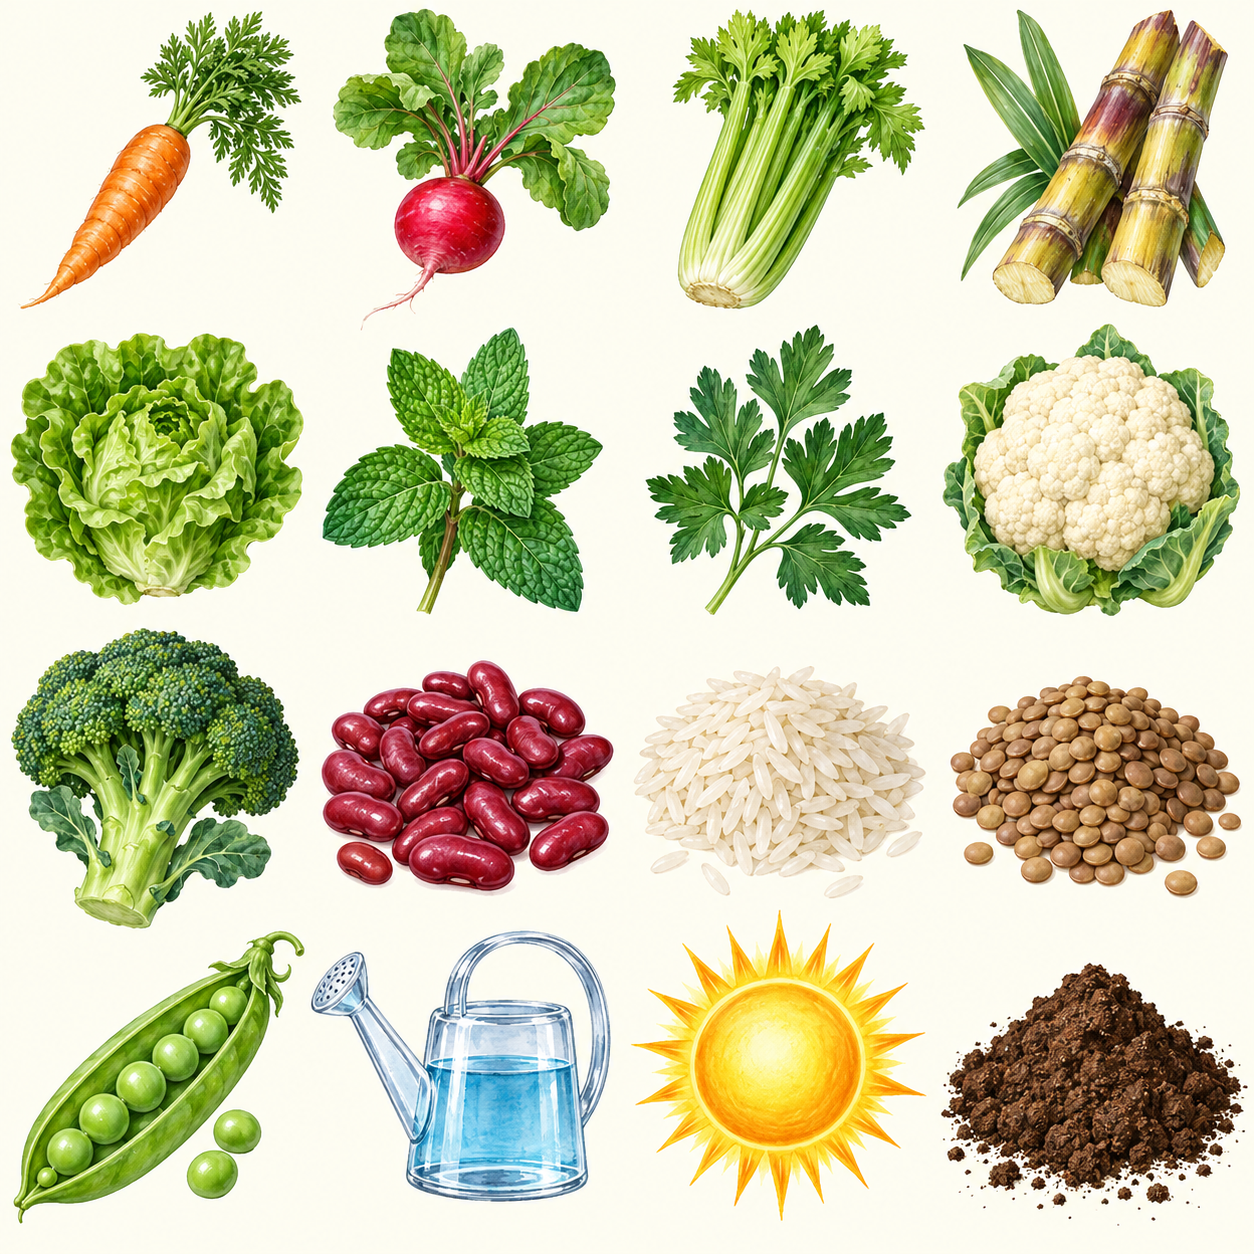
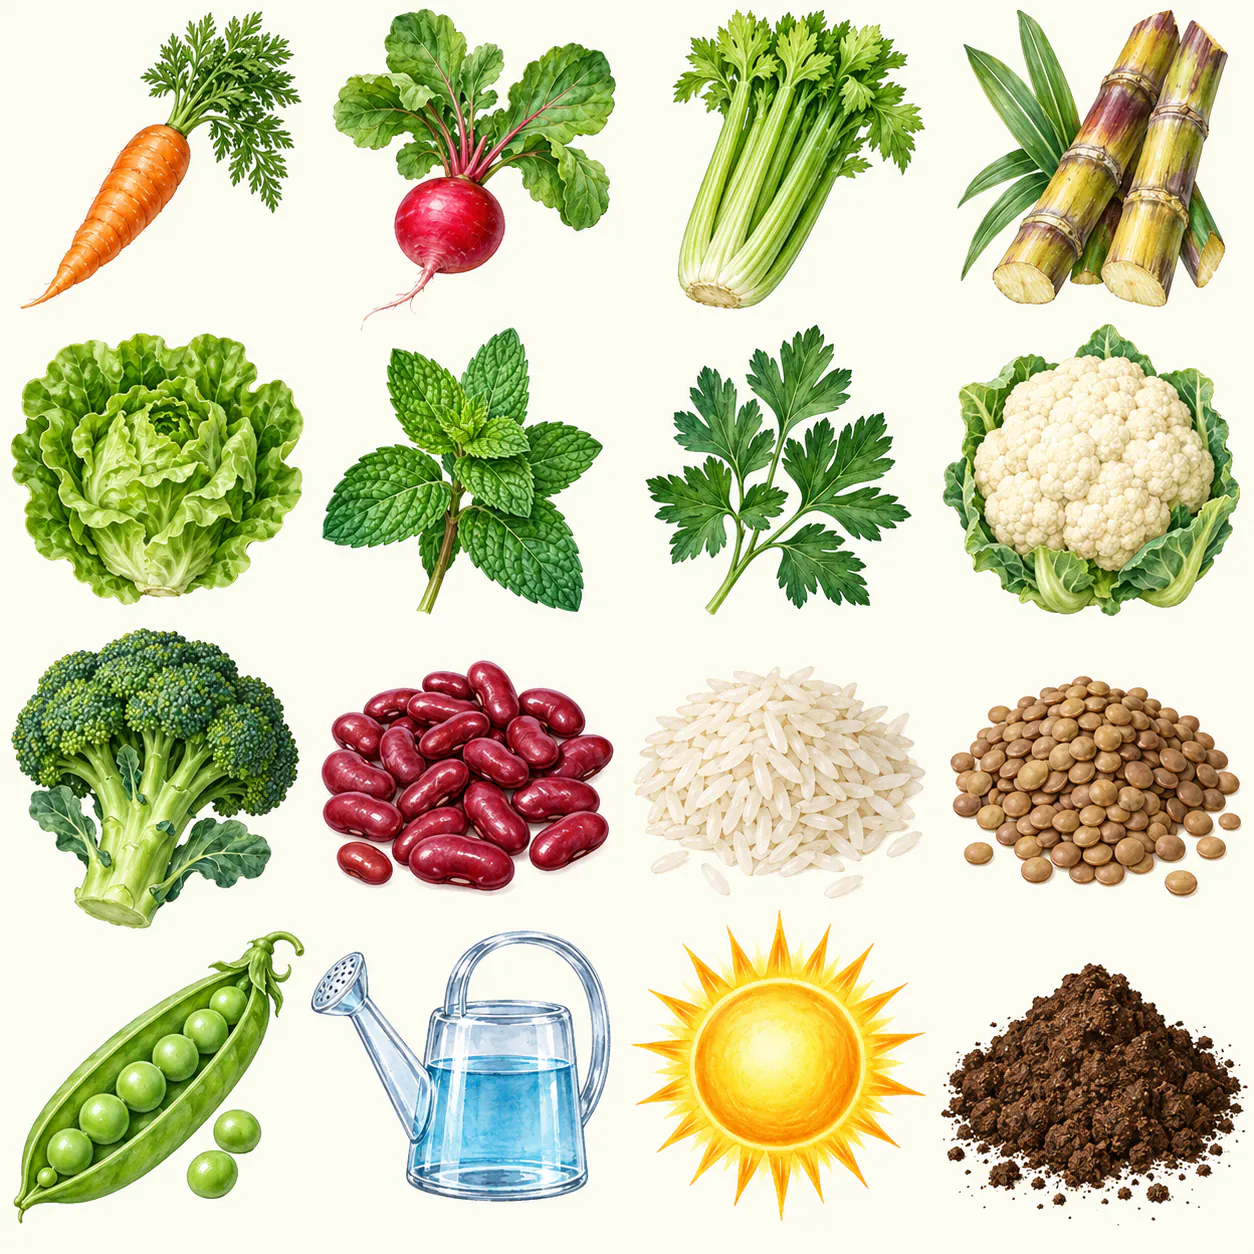
perf: re-encode bundled art as lossy WebP, 50.6 MB to 7.1 MB (AUD-008, part 2)
Owner-approved after side-by-side review (PSNR 32.5-41.3 dB measured on
the game background). Every image keeps its pixel size, so atlas crop
rectangles are unchanged; PNG atlases became .webp and references in code,
tests and pubspec were updated. Measured: images inside the debug APK 7.1 MB
(were 50.6 MB); debug APK 198.5 MB (was 222.4 MB). Hub goldens updated for
the re-encoded island art.

diff --git a/lib/features/science/science_picture.dart b/lib/features/science/science_picture.dart
@@ -7,7 +7,7 @@ import 'science_atlas_crops.dart';
 import 'magnet_picture.dart';
 
 const scienceAtlases = <String, List<String>>{
-  'science-details-v2.png': [
+  'science-details-v2.webp': [
     'plastic_pot',
     'glass_marble',
     'paper_straw',
@@ -25,7 +25,7 @@ const scienceAtlases = <String, List<String>>{
     'gloves',
     'boots',
   ],
-  'materials-atlas-v2.png': [
+  'materials-atlas-v2.webp': [
     'spoon',
     'chair',
     'window',
@@ -61,7 +61,7 @@ const scienceAtlases = <String, List<String>>{
     'magnet',
     'key',
   ],
-  'earth-atlas-v2.png': [
+  'earth-atlas-v2.webp': [
     'pond',
     'stream',
     'river',
@@ -79,7 +79,7 @@ const scienceAtlases = <String, List<String>>{
     'moon',
     'astronaut',
   ],
-  'electric-atlas-v2.png': [
+  'electric-atlas-v2.webp': [
     'tv',
     'vacuum',
     'lantern',
@@ -169,7 +169,7 @@ class SciencePicture extends StatelessWidget {
       return SizedBox(
         height: height,
         width: height * 1.25,
-        child: const IllustratedArt(asset: 'book-v1.png'),
+        child: const IllustratedArt(asset: 'book-v1.webp'),
       );
     }
     if (art == 'magnet') return MagnetPicture(height: height);
@@ -228,21 +228,21 @@ class SciencePicture extends StatelessWidget {
 }
 
 const _forceCutouts = <String, (String, Rect)>{
-  'trolley': ('forces-objects-v4.png', Rect.fromLTWH(28, 52, 306, 272)),
-  'ball': ('forces-objects-v4.png', Rect.fromLTWH(369, 61, 253, 251)),
-  'doorbell': ('forces-objects-v4.png', Rect.fromLTWH(714, 69, 159, 244)),
-  'drawer': ('forces-objects-v4.png', Rect.fromLTWH(955, 58, 264, 265)),
-  'swing': ('forces-objects-v4.png', Rect.fromLTWH(40, 334, 279, 290)),
-  'sailboat': ('forces-objects-v4.png', Rect.fromLTWH(364, 332, 277, 298)),
-  'cork': ('forces-objects-v4.png', Rect.fromLTWH(690, 366, 212, 252)),
-  'balloon': ('forces-objects-v4.png', Rect.fromLTWH(1003, 335, 181, 307)),
-  'nail': ('forces-objects-v4.png', Rect.fromLTWH(44, 654, 257, 241)),
-  'orange': ('forces-objects-v4.png', Rect.fromLTWH(42, 922, 280, 269)),
-  'peeled_orange': ('forces-objects-v4.png', Rect.fromLTWH(364, 938, 269, 247)),
-  'door': ('forces-objects-v4.png', Rect.fromLTWH(1012, 900, 195, 310)),
-  'fish': ('forces-characters-v4.png', Rect.fromLTWH(946, 95, 290, 192)),
-  'snake': ('forces-characters-v4.png', Rect.fromLTWH(341, 448, 275, 152)),
-  'bird': ('forces-characters-v4.png', Rect.fromLTWH(965, 414, 263, 200)),
-  'kangaroo': ('forces-characters-v4.png', Rect.fromLTWH(327, 632, 281, 303)),
-  'baby': ('forces-characters-v4.png', Rect.fromLTWH(952, 704, 265, 219)),
+  'trolley': ('forces-objects-v4.webp', Rect.fromLTWH(28, 52, 306, 272)),
+  'ball': ('forces-objects-v4.webp', Rect.fromLTWH(369, 61, 253, 251)),
+  'doorbell': ('forces-objects-v4.webp', Rect.fromLTWH(714, 69, 159, 244)),
+  'drawer': ('forces-objects-v4.webp', Rect.fromLTWH(955, 58, 264, 265)),
+  'swing': ('forces-objects-v4.webp', Rect.fromLTWH(40, 334, 279, 290)),
+  'sailboat': ('forces-objects-v4.webp', Rect.fromLTWH(364, 332, 277, 298)),
+  'cork': ('forces-objects-v4.webp', Rect.fromLTWH(690, 366, 212, 252)),
+  'balloon': ('forces-objects-v4.webp', Rect.fromLTWH(1003, 335, 181, 307)),
+  'nail': ('forces-objects-v4.webp', Rect.fromLTWH(44, 654, 257, 241)),
+  'orange': ('forces-objects-v4.webp', Rect.fromLTWH(42, 922, 280, 269)),
+  'peeled_orange': ('forces-objects-v4.webp', Rect.fromLTWH(364, 938, 269, 247)),
+  'door': ('forces-objects-v4.webp', Rect.fromLTWH(1012, 900, 195, 310)),
+  'fish': ('forces-characters-v4.webp', Rect.fromLTWH(946, 95, 290, 192)),
+  'snake': ('forces-characters-v4.webp', Rect.fromLTWH(341, 448, 275, 152)),
+  'bird': ('forces-characters-v4.webp', Rect.fromLTWH(965, 414, 263, 200)),
+  'kangaroo': ('forces-characters-v4.webp', Rect.fromLTWH(327, 632, 281, 303)),
+  'baby': ('forces-characters-v4.webp', Rect.fromLTWH(952, 704, 265, 219)),
 };

diff --git a/lib/features/science/science_atlas_crops.dart b/lib/features/science/science_atlas_crops.dart
@@ -3,14 +3,14 @@ import 'dart:ui';
 // Measured from generated alpha silhouettes, with five pixels of edge padding.
 // Source images are unchanged. Whole cells would include neighbouring subjects.
 const scienceAtlasSizes = <String, Size>{
-  'materials-atlas-v2.png': Size(1254, 1254),
-  'electric-atlas-v2.png': Size(1254, 1254),
-  'earth-atlas-v2.png': Size(1254, 1254),
-  'science-details-v2.png': Size(1269, 1240),
+  'materials-atlas-v2.webp': Size(1254, 1254),
+  'electric-atlas-v2.webp': Size(1254, 1254),
+  'earth-atlas-v2.webp': Size(1254, 1254),
+  'science-details-v2.webp': Size(1269, 1240),
 };
 
 const scienceAtlasBounds = <String, List<Rect>>{
-  'materials-atlas-v2.png': [
+  'materials-atlas-v2.webp': [
     Rect.fromLTWH(22, 48, 296, 258),
     Rect.fromLTWH(369, 8, 220, 321),
     Rect.fromLTWH(653, 34, 259, 278),
@@ -28,7 +28,7 @@ const scienceAtlasBounds = <String, List<Rect>>{
     Rect.fromLTWH(641, 970, 283, 219),
     Rect.fromLTWH(956, 958, 272, 235),
   ],
-  'electric-atlas-v2.png': [
+  'electric-atlas-v2.webp': [
     Rect.fromLTWH(22, 73, 294, 234),
     Rect.fromLTWH(333, 9, 276, 324),
     Rect.fromLTWH(695, 7, 176, 321),
@@ -46,7 +46,7 @@ const scienceAtlasBounds = <String, List<Rect>>{
     Rect.fromLTWH(628, 962, 318, 224),
     Rect.fromLTWH(964, 945, 265, 298),
   ],
-  'earth-atlas-v2.png': [
+  'earth-atlas-v2.webp': [
     Rect.fromLTWH(17, 53, 292, 296),
     Rect.fromLTWH(327, 27, 293, 321),
     Rect.fromLTWH(634, 78, 294, 274),
@@ -64,7 +64,7 @@ const scienceAtlasBounds = <String, List<Rect>>{
     Rect.fromLTWH(654, 943, 270, 270),
     Rect.fromLTWH(1007, 920, 174, 308),
   ],
-  'science-details-v2.png': [
+  'science-details-v2.webp': [
     Rect.fromLTWH(56, 72, 234, 235),
     Rect.fromLTWH(400, 105, 186, 187),
     Rect.fromLTWH(656, 50, 264, 268),

diff --git a/lib/features/science/sound_picture.dart b/lib/features/science/sound_picture.dart
@@ -35,7 +35,7 @@ class SoundPicture extends StatelessWidget {
                   ? math.sin(phase) * .045
                   : 0,
               child: IllustratedArt(
-                asset: 'sound-atlas-v2.png',
+                asset: 'sound-atlas-v2.webp',
                 crop: Rect.fromLTWH(
                   (soundSpriteCells[art]! % 4) / 4,
                   const [0.0, .35, .635][soundSpriteCells[art]! ~/ 4],
@@ -47,7 +47,7 @@ class SoundPicture extends StatelessWidget {
           )
         : soundDetailCells.containsKey(art)
         ? IllustratedArt(
-            asset: 'sound-details-v2.png',
+            asset: 'sound-details-v2.webp',
             crop: Rect.fromLTWH(
               (soundDetailCells[art]! % 3) / 3,
               (soundDetailCells[art]! ~/ 3) / 2,

diff --git a/lib/features/science/discovery_world.dart b/lib/features/science/discovery_world.dart
@@ -65,7 +65,7 @@ class DiscoveryWorld extends StatelessWidget {
           height: 290,
           width: double.infinity,
           child: IllustratedArt(
-            asset: 'electric-safety-v1.png',
+            asset: 'electric-safety-v1.webp',
             crop: const [
               Rect.fromLTWH(0, 0, .304, 1),
               Rect.fromLTWH(.306, 0, .369, 1),
@@ -93,7 +93,7 @@ class DiscoveryWorld extends StatelessWidget {
             builder: (context, box) => Stack(
               children: [
                 const Positioned.fill(
-                  child: IllustratedArt(asset: 'water-world-v1.png'),
+                  child: IllustratedArt(asset: 'water-world-v1.webp'),
                 ),
                 for (final item in step.options)
                   Positioned(

diff --git a/lib/features/biology/illustrated_art.dart b/lib/features/biology/illustrated_art.dart
@@ -85,7 +85,7 @@ const illustratedEyeAnchors = <String, Offset>{
   // Music is represented by a musical instrument, not an unrelated symbol.
   if (const ['music', 'hear_music', 'sound', 'loud'].contains(id)) {
     return (
-      asset: 'sound-atlas-v2.png',
+      asset: 'sound-atlas-v2.webp',
       crop: const Rect.fromLTWH(.25, 0, .25, .35),
     );
   }
@@ -103,7 +103,7 @@ const illustratedEyeAnchors = <String, Offset>{
   }
   if (id == 'paper') {
     return (
-      asset: 'science-details-v2.png',
+      asset: 'science-details-v2.webp',
       crop: const Rect.fromLTWH(643 / 1269, 366 / 1240, 307 / 1269, 264 / 1240),
     );
   }

diff --git a/test/plant_review_test.dart b/test/plant_review_test.dart
@@ -21,7 +21,7 @@ void main() {
   setUpAll(() async {
     helpers.testCatalog = await helpers.loadTestCatalog();
     lesson = (await LessonLibrary.load()).lessons['unit_02']!;
-    await Flame.images.load('science-details-v2.png');
+    await Flame.images.load('science-details-v2.webp');
   });
   test('Fridge neighbours belong to different food groups', () {
     final step = lesson.steps[4];

diff --git a/test/science_islands_test.dart b/test/science_islands_test.dart
@@ -48,7 +48,7 @@ void main() {
     for (final atlas in ['five-senses-v2.webp', 'sense-objects-v2.webp']) {
       await Flame.images.load(atlas);
     }
-    for (final atlas in ['sound-atlas-v2.png', 'sound-details-v2.png']) {
+    for (final atlas in ['sound-atlas-v2.webp', 'sound-details-v2.webp']) {
       await Flame.images.load(atlas);
     }
     for (final atlas in forceArtAssets) {

diff --git a/test/sound_progress_test.dart b/test/sound_progress_test.dart
@@ -23,8 +23,8 @@ void main() {
     for (final atlas in scienceAtlases.keys) {
       await Flame.images.load(atlas);
     }
-    await Flame.images.load('sound-atlas-v2.png');
-    await Flame.images.load('sound-details-v2.png');
+    await Flame.images.load('sound-atlas-v2.webp');
+    await Flame.images.load('sound-details-v2.webp');
   });
 
   Map<String, dynamic> chartState({

diff --git a/test/sound_scenes_test.dart b/test/sound_scenes_test.dart
@@ -39,8 +39,8 @@ void main() {
     for (final atlas in scienceAtlases.keys) {
       await Flame.images.load(atlas);
     }
-    await Flame.images.load('sound-atlas-v2.png');
-    await Flame.images.load('sound-details-v2.png');
+    await Flame.images.load('sound-atlas-v2.webp');
+    await Flame.images.load('sound-details-v2.webp');
   });
   setUp(() {
     audio.clear();

diff --git a/lib/features/science/force_picture.dart b/lib/features/science/force_picture.dart
@@ -8,10 +8,10 @@ import 'science_picture.dart';
 import '../../core/game_image.dart';
 
 const forceArtAssets = [
-  'forces-objects-v4.png',
-  'forces-characters-v4.png',
-  'forces-details-v4.png',
-  'forces-garden-v6.png',
+  'forces-objects-v4.webp',
+  'forces-characters-v4.webp',
+  'forces-details-v4.webp',
+  'forces-garden-v6.webp',
 ];
 
 const _objects = {

diff --git a/test/material_correction_test.dart b/test/material_correction_test.dart
@@ -29,8 +29,8 @@ void main() {
       'MaterialIcons',
     )..addFont(rootBundle.load('fonts/MaterialIcons-Regular.otf'))).load();
     for (final file in [
-      'materials-atlas-v2.png',
-      'science-details-v2.png',
+      'materials-atlas-v2.webp',
+      'science-details-v2.webp',
       'physics-atlas-v1.webp',
     ]) {
       await Flame.images.load(file);

diff --git a/test/material_missions_test.dart b/test/material_missions_test.dart
@@ -32,8 +32,8 @@ void main() {
       'MaterialIcons',
     )..addFont(rootBundle.load('fonts/MaterialIcons-Regular.otf'))).load();
     for (final file in [
-      'materials-atlas-v2.png',
-      'science-details-v2.png',
+      'materials-atlas-v2.webp',
+      'science-details-v2.webp',
       'physics-atlas-v1.webp',
     ]) {
       await Flame.images.load(file);
